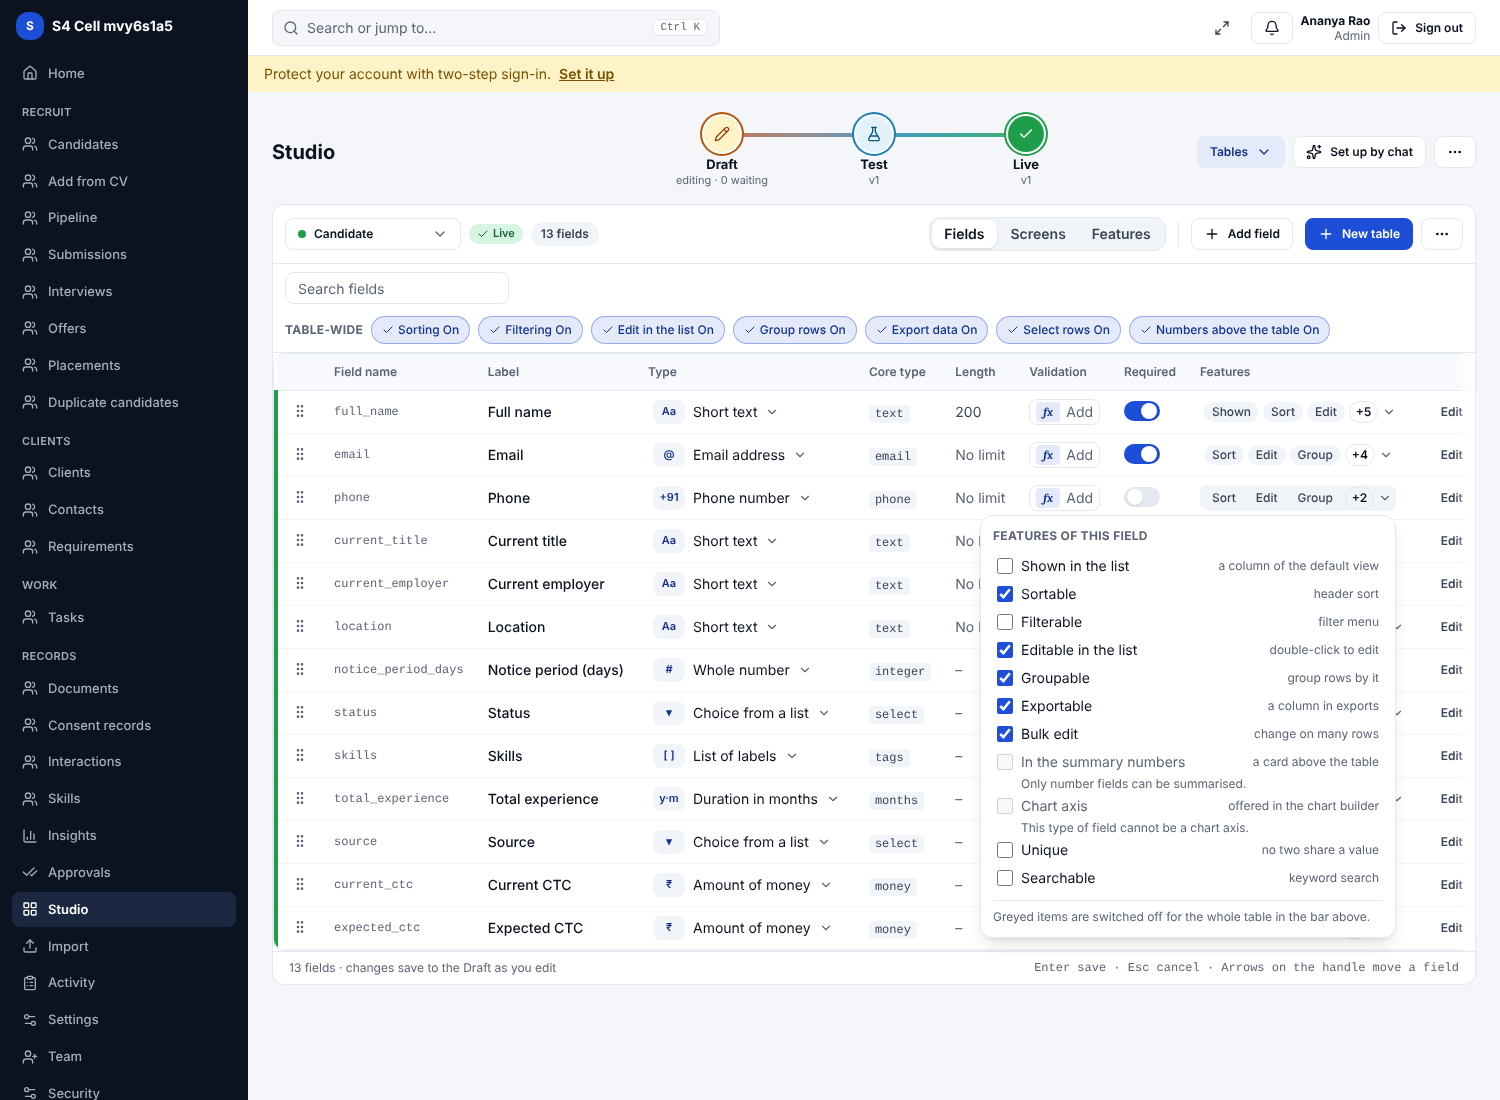
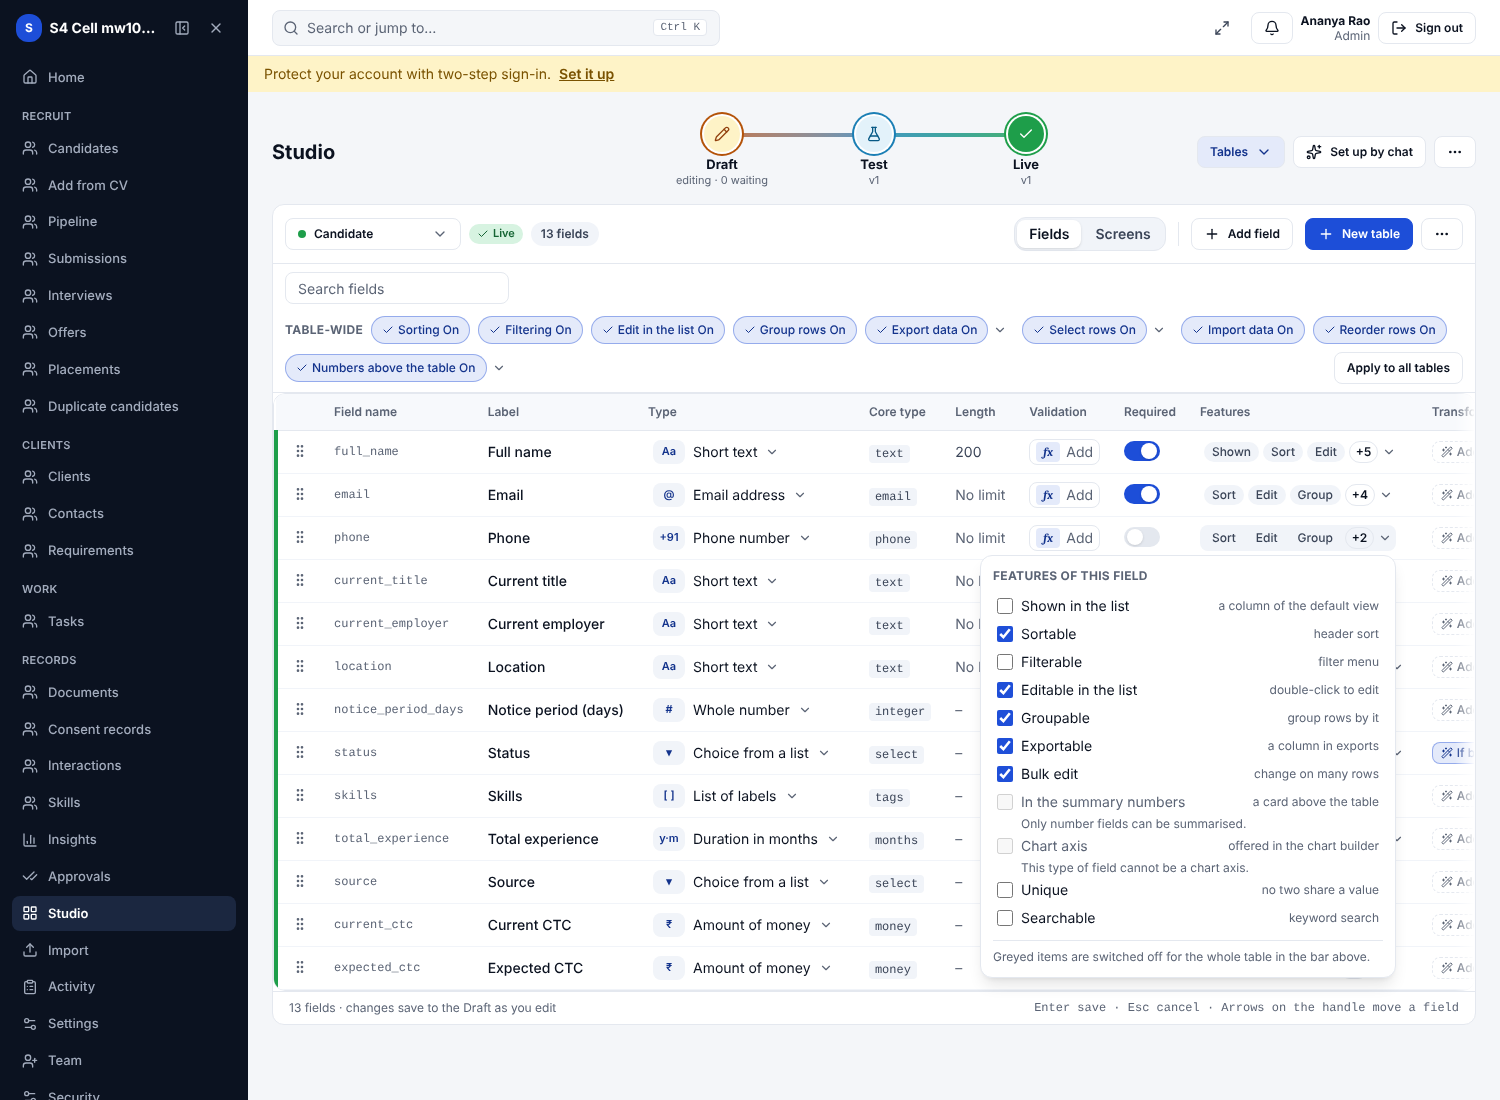
Table-wide bar: shorter Summary chip, Apply to all beside search, no lost quick saves (tests running)
Claude-Session: https://claude.ai/code/session_01WKgCPB21QZrQNwipExUmFF

diff --git a/apps/web/src/features/studio/TableWideBar.tsx b/apps/web/src/features/studio/TableWideBar.tsx
@@ -21,7 +21,7 @@ const SWITCHES: { flag: Flag; label: string; help: string; menu?: Menu; needsLis
   { flag: 'select_bulk', label: 'Select rows', help: 'tick rows and act on many', menu: 'bulk', needsList: true },
   { flag: 'import_data', label: 'Import data', help: 'CSV, JSON or Excel from the toolbar' },
   { flag: 'row_order', label: 'Reorder rows', help: 'rows can be moved up or down; the order is shared across all users', needsList: true },
-  { flag: 'statistics', label: 'Numbers above the table', help: 'summary cards or a chart over the list', menu: 'numbers' },
+  { flag: 'statistics', label: 'Summary', help: 'summary cards or a chart over the list', menu: 'numbers' },
 ]
 const BULK: { value: TableFeatures['bulk_actions'][number]; label: string }[] = [
   { value: 'export', label: 'Export' },
@@ -65,25 +65,11 @@ function MenuButton({ label, disabled, wide, children }: { label: string; disabl
  * tables. Each change saves to the Draft straight away and goes live on publish.
  */
 export function TableWideBar({ table, canEdit, features, patch }: { table: StudioTable; canEdit: boolean; features: TableFeatures; patch: (c: Partial<TableFeatures>, onFail?: () => void) => void }) {
-  const qc = useQueryClient()
-  const toast = useToast()
   // Rows to tick or drag exist only on a table screen; a table shown only as master-detail has none.
   const screens = useQuery({ queryKey: ['studio-screens'], queryFn: studio.screens, retry: false })
   const noList = screens.data && !screens.data.some((x) => x.table === table.key && x.pattern === 'searchable_table')
     ? 'This table has no table screen, only master-detail and other layouts, so there are no rows to tick or drag. Add a Searchable table screen to use this.'
     : false
-  const all = useMutation({
-    mutationFn: () => studio.setAllFeatures(features),
-    onSuccess: async (r) => {
-      toast({ title: 'Applied to every table', description: `${r.tables.length} ${r.tables.length === 1 ? 'table' : 'tables'} changed in Draft.`, tone: 'ok' })
-      await Promise.all(['studio-tables', 'studio-status'].map((k) => qc.invalidateQueries({ queryKey: [k] })))
-    },
-    onError: (e) => {
-      const first = e instanceof ApiError ? e.errors[0] : undefined
-      toast({ title: 'Could not apply', description: first ? first.message : (e as Error).message, tone: 'bad' })
-    },
-  })
-
   const menu = (m: Menu | undefined, on: boolean) => {
     if (m === 'export') {
       return (
@@ -127,7 +113,7 @@ export function TableWideBar({ table, canEdit, features, patch }: { table: Studi
     }
     if (m === 'numbers') {
       return (
-        <MenuButton label="Numbers options" disabled={!on} wide>
+        <MenuButton label="Summary options" disabled={!on} wide>
           <Chip
             label="Choose the summary cards myself"
             checked={features.stat_cards !== null}
@@ -145,7 +131,7 @@ export function TableWideBar({ table, canEdit, features, patch }: { table: Studi
   }
 
   return (
-    <div className="flex flex-wrap items-center gap-2" role="group" aria-label={`Table-wide switches for ${table.label}`} data-testid="features-panel">
+    <div className="flex w-full flex-wrap items-center gap-2" role="group" aria-label={`Table-wide switches for ${table.label}`} data-testid="features-panel">
       <span className="text-xs font-bold tracking-wide text-muted uppercase">Table-wide</span>
       {SWITCHES.map((s) => {
         const blocked = s.needsList ? noList : false
@@ -164,12 +150,30 @@ export function TableWideBar({ table, canEdit, features, patch }: { table: Studi
           </span>
         )
       })}
-      {canEdit && (
-        <Button size="sm" variant="secondary" className="ml-auto" loading={all.isPending} onClick={() => all.mutate()} title="Copy these table-wide settings to every table">
-          Apply to all tables
-        </Button>
-      )}
     </div>
+  )
+}
+
+/** Copies this table's table-wide settings to every table. Sits beside the field search, not in the chip row. */
+export function ApplyToAll({ features }: { features: TableFeatures }) {
+  const qc = useQueryClient()
+  const toast = useToast()
+  const all = useMutation({
+    mutationFn: () => studio.setAllFeatures(features),
+    onSuccess: async (r) => {
+      toast({ title: 'Applied to every table', description: `${r.tables.length} ${r.tables.length === 1 ? 'table' : 'tables'} changed in Draft.`, tone: 'ok' })
+      await Promise.all(['studio-tables', 'studio-status'].map((k) => qc.invalidateQueries({ queryKey: [k] })))
+    },
+    onError: (e) => {
+      const first = e instanceof ApiError ? e.errors[0] : undefined
+      toast({ title: 'Could not apply', description: first ? first.message : (e as Error).message, tone: 'bad' })
+    },
+  })
+
+  return (
+    <Button size="sm" variant="secondary" loading={all.isPending} onClick={() => all.mutate()} title="Copy these table-wide settings to every table">
+      Apply to all tables
+    </Button>
   )
 }
 

diff --git a/apps/web/e2e/s8-table-wide.spec.ts b/apps/web/e2e/s8-table-wide.spec.ts
@@ -13,22 +13,22 @@ test('The Table-wide bar replaces the Features tab: Import and Reorder switches,
   await test.step('There is no Features tab; the bar has nine switches and Apply to all tables', async () => {
     await expect(page.getByRole('tab', { name: 'Features' })).toHaveCount(0)
     await expect(bar.getByRole('switch')).toHaveCount(9)
-    for (const n of ['Import data', 'Reorder rows', 'Export data', 'Select rows', 'Numbers above the table']) await expect(bar.getByRole('switch', { name: new RegExp(`^${n}`) })).toBeChecked()
-    await expect(bar.getByRole('button', { name: 'Apply to all tables' })).toBeVisible()
-    await page.screenshot({ path: `${SHOTS}/table-wide-bar.png`, clip: { x: 0, y: 60, width: 1500, height: 330 } })
+    for (const n of ['Import data', 'Reorder rows', 'Export data', 'Select rows', 'Summary']) await expect(bar.getByRole('switch', { name: new RegExp(`^${n}`) })).toBeChecked()
+    await expect(page.getByRole('button', { name: 'Apply to all tables' })).toBeVisible()
+    await page.screenshot({ path: `${SHOTS}/table-wide-bar.png`, clip: { x: 300, y: 150, width: 1200, height: 230 } })
   })
 
   await test.step('Each ▾ menu opens its own choices and saves at once', async () => {
     await bar.getByRole('button', { name: 'Export options' }).click()
     await featuresSaved(page, () => page.getByRole('checkbox', { name: 'Excel' }).uncheck())
-    await page.screenshot({ path: `${SHOTS}/table-wide-export-menu.png`, clip: { x: 0, y: 60, width: 1500, height: 330 } })
+    await page.screenshot({ path: `${SHOTS}/table-wide-export-menu.png`, clip: { x: 300, y: 150, width: 1200, height: 230 } })
     await page.keyboard.press('Escape')
-    await bar.getByRole('button', { name: 'Numbers options' }).click()
-    const pop = page.getByRole('dialog', { name: 'Numbers options' })
+    await bar.getByRole('button', { name: 'Summary options' }).click()
+    const pop = page.getByRole('dialog', { name: 'Summary options' })
     await featuresSaved(page, () => pop.getByRole('checkbox', { name: 'Choose the summary cards myself' }).check())
     await featuresSaved(page, () => pop.getByLabel('Card 1 shows').selectOption('count'))
     await featuresSaved(page, async () => { await pop.getByLabel('Card 1 name').fill('Everyone'); await pop.getByLabel('Card 1 name').press('Enter') })
-    await page.screenshot({ path: `${SHOTS}/table-wide-numbers-menu.png`, clip: { x: 0, y: 60, width: 1500, height: 420 } })
+    await page.screenshot({ path: `${SHOTS}/table-wide-numbers-menu.png`, clip: { x: 300, y: 150, width: 1200, height: 420 } })
     await page.keyboard.press('Escape')
   })
 

diff --git a/apps/web/src/features/studio/FeaturesCell.tsx b/apps/web/src/features/studio/FeaturesCell.tsx
@@ -59,8 +59,8 @@ export function ticksOf(table: StudioTable, f: TableFeatures, field: FieldDef, l
     t('group', 'Group', 'Groupable', 'group rows by it', !long && !f.ungroupable.includes(field.key), long ? 'Long text cannot be grouped.' : null, off('grouping', 'Group rows'), listless ? noScreen : null),
     t('export', 'Export', 'Exportable', 'a column in exports', !f.unexported.includes(field.key), null, off('export_data', 'Export data')),
     t('bulk', 'Bulk', 'Bulk edit', 'change on many rows', !long && !f.nobulk.includes(field.key), long ? 'Long text cannot be changed in bulk.' : null, off('select_bulk', 'Select rows'), listless ? noScreen : null),
-    t('summary', 'Summary', 'In the summary numbers', 'a card above the table', summarised.includes(field.key), NUMERIC.includes(field.type) ? (f.stat_cards !== null ? 'Summary cards are chosen by hand.' : null) : 'Only number fields can be summarised.', off('statistics', 'Numbers above the table')),
-    t('chart', 'Chart', 'Chart axis', 'offered in the chart builder', CHARTABLE.includes(field.type) && !f.nochart.includes(field.key), CHARTABLE.includes(field.type) ? null : 'This type of field cannot be a chart axis.', off('statistics', 'Numbers above the table')),
+    t('summary', 'Summary', 'In the summary numbers', 'a card above the table', summarised.includes(field.key), NUMERIC.includes(field.type) ? (f.stat_cards !== null ? 'Summary cards are chosen by hand.' : null) : 'Only number fields can be summarised.', off('statistics', 'Summary')),
+    t('chart', 'Chart', 'Chart axis', 'offered in the chart builder', CHARTABLE.includes(field.type) && !f.nochart.includes(field.key), CHARTABLE.includes(field.type) ? null : 'This type of field cannot be a chart axis.', off('statistics', 'Summary')),
     t('unique', 'Unique', 'Unique', 'no two share a value', !!field.unique, NO_COMPARE.includes(field.type) ? 'Values of this type cannot be compared.' : null, null),
     t('search', 'Search', 'Searchable', 'keyword search', field.searchable !== false, null, null),
   ]

diff --git a/apps/web/e2e/r4.spec.ts b/apps/web/e2e/r4.spec.ts
@@ -41,8 +41,8 @@ test('Summary strip: cards chosen in Studio, and a whole-table switch', async ({
 
   await test.step('Choose three cards in Studio', async () => {
     await page.goto('/studio?tab=data&table=candidate&part=features')
-    await page.getByRole('button', { name: 'Numbers options' }).click()
-    const panel = page.getByRole('dialog', { name: 'Numbers options' })
+    await page.getByRole('button', { name: 'Summary options' }).click()
+    const panel = page.getByRole('dialog', { name: 'Summary options' })
     await featuresSaved(page, () => panel.getByRole('checkbox', { name: 'Choose the summary cards myself' }).check())
     await expect(panel.getByRole('group', { name: 'Card 1' })).toBeVisible()
     await featuresSaved(page, () => panel.getByRole('button', { name: 'Add a card' }).click())
@@ -97,8 +97,8 @@ test('Summary strip: cards chosen in Studio, and a whole-table switch', async ({
     await page.goto('/s/candidates')
     await page.getByRole('checkbox', { name: 'Whole table' }).uncheck()
     await page.goto('/studio?tab=data&table=candidate&part=features')
-    await page.getByRole('button', { name: 'Numbers options' }).click()
-    await featuresSaved(page, () => page.getByRole('dialog', { name: 'Numbers options' }).getByRole('checkbox', { name: 'Choose the summary cards myself' }).uncheck())
+    await page.getByRole('button', { name: 'Summary options' }).click()
+    await featuresSaved(page, () => page.getByRole('dialog', { name: 'Summary options' }).getByRole('checkbox', { name: 'Choose the summary cards myself' }).uncheck())
     await page.keyboard.press('Escape')
     await goLive(page)
     await page.goto('/s/candidates')

diff --git a/apps/web/src/features/studio/useTableFeatures.ts b/apps/web/src/features/studio/useTableFeatures.ts
@@ -15,11 +15,13 @@ export function useTableFeatures(table: StudioTable) {
   const toast = useToast()
   const saved = featuresOf(table)
   const latest = useRef<TableFeatures>(saved)
+  const inFlight = useRef(0)
   const json = JSON.stringify(saved)
   // What the person just chose, shown at once while it saves; dropped when the saved copy arrives or a save fails.
   const [shown, setShown] = useState<{ base: string; value: TableFeatures } | null>(null)
   useEffect(() => {
-    latest.current = JSON.parse(json) as TableFeatures
+    // Not while a save is on its way: the copy that arrives first is older than what was just chosen.
+    if (inFlight.current === 0) latest.current = JSON.parse(json) as TableFeatures
   }, [json])
   const save = useMutation({
     mutationFn: (next: TableFeatures) => studio.setFeatures(table.key, next),
@@ -33,9 +35,13 @@ export function useTableFeatures(table: StudioTable) {
       latest.current = JSON.parse(json) as TableFeatures
       setShown(null)
     },
+    onSettled: () => {
+      inFlight.current = Math.max(0, inFlight.current - 1)
+    },
   })
   const patch = (change: Partial<TableFeatures>, onFail?: () => void) => {
     latest.current = { ...latest.current, ...change }
+    inFlight.current += 1
     setShown({ base: json, value: latest.current })
     save.mutate(latest.current, { onError: onFail })
   }

diff --git a/apps/web/e2e/r7.spec.ts b/apps/web/e2e/r7.spec.ts
@@ -35,7 +35,7 @@ test('Features: whole-table switches in the bar over the Fields grid and a Featu
   await test.step('The Table-wide bar holds every switch; there is no Features tab and no Save bar', async () => {
     await expect(page.getByRole('tab', { name: 'Features' })).toHaveCount(0)
     await expect(panel.getByRole('switch')).toHaveCount(9)
-    await expect(panel.getByRole('button', { name: 'Apply to all tables' })).toBeVisible()
+    await expect(page.getByRole('button', { name: 'Apply to all tables' })).toBeVisible()
     await expect(page.getByRole('button', { name: 'Save features' })).toHaveCount(0)
     await shot(page, 'r7-features-on')
   })
@@ -84,6 +84,10 @@ test('Every change in the bar saves at once, and flipping something off and on a
     const t = ((await r.json()) as { key: string; features?: Record<string, unknown> | null }[]).find((x) => x.key === 'candidate')
     return JSON.stringify(t?.features ?? null)
   })
+  // A first save writes the whole set once, so what is compared below is always a saved copy.
+  const sorting = panel.getByRole('switch', { name: /^Sorting/ })
+  await featuresSaved(page, () => sorting.click())
+  await featuresSaved(page, () => sorting.click())
   const start = await read()
 
   const flips: [string, () => ReturnType<typeof panel.getByRole>, string?][] = [

diff --git a/apps/web/src/features/studio/FieldsGrid.tsx b/apps/web/src/features/studio/FieldsGrid.tsx
@@ -10,7 +10,7 @@ import { InlineLabel } from './InlineLabel'
 import { LengthCell } from './LengthCell'
 import { RequiredSwitch } from './RequiredSwitch'
 import { ValidationCell } from './ValidationCell'
-import { TableWideBar } from './TableWideBar'
+import { ApplyToAll, TableWideBar } from './TableWideBar'
 import { TransformCell } from './TransformCell'
 import { TypeCell } from './TypeCell'
 import { RemovedCount, UndoRemove } from './UndoRemove'
@@ -70,6 +70,7 @@ export function FieldsGrid({
       <p className="sr-only" role="status" aria-live="polite">{note}</p>
       <div className="flex flex-wrap items-center gap-3 border-b border-line px-3 py-2">
         <Input aria-label="Search fields" placeholder="Search fields" className="h-8 w-56" value={find} onChange={(e) => setFind(e.target.value)} />
+        {canEdit && <span className="ml-auto"><ApplyToAll features={features} /></span>}
         <TableWideBar table={table} canEdit={canEdit} features={features} patch={patch} />
       </div>
       <Table aria-label={`${table.label} fields`}>

diff --git a/apps/web/e2e/s4-features.spec.ts b/apps/web/e2e/s4-features.spec.ts
@@ -23,7 +23,7 @@ test('S4.1 the Features cell: chips, +N, the dropdown with its eleven ticks, key
   await test.step('The table-wide bar is above the grid with nine switches', async () => {
     const bar = page.getByRole('group', { name: 'Table-wide switches for Candidate' })
     await expect(bar.getByRole('switch')).toHaveCount(9)
-    for (const n of ['Sorting', 'Filtering', 'Edit in the list', 'Group rows', 'Export data', 'Select rows', 'Numbers above the table'])
+    for (const n of ['Sorting', 'Filtering', 'Edit in the list', 'Group rows', 'Export data', 'Select rows', 'Summary'])
       await expect(bar.getByRole('switch', { name: new RegExp(`^${n}`) })).toBeChecked()
   })
 

diff --git a/apps/web/e2e/n5g.spec.ts b/apps/web/e2e/n5g.spec.ts
@@ -46,6 +46,6 @@ test('Numbers above the table follow the search; chosen in Studio; switch off', 
   })
 
   await test.step('Switching it off removes the strip from the preview data', async () => {
-    await setTableWide(page, 'Numbers above the table', false)
+    await setTableWide(page, 'Summary', false)
   })
 })
